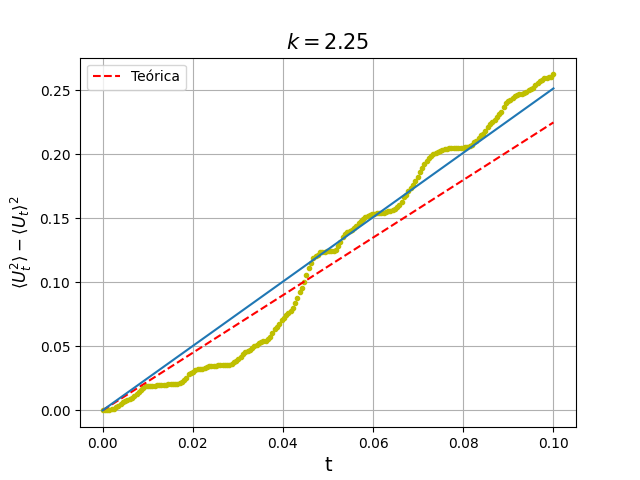
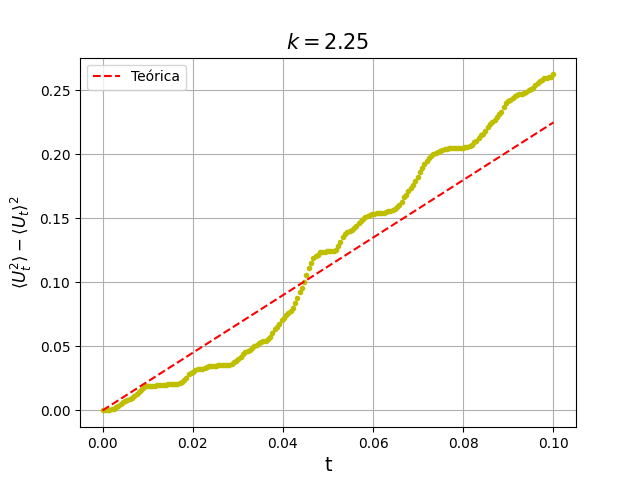
corrijo imagen

diff --git a/Dfunction/plot_t_vs_var.py b/Dfunction/plot_t_vs_var.py
@@ -59,14 +59,14 @@ plt.title(r'$k=2.0$', fontsize=15)
 plt.legend()
 plt.savefig('t_vs_var_k_2')
 '''
+'''
 plt.plot(t6, varU6/10, 'yo', markersize=3)
 plt.plot(t6, 2.25*t6, 'r--', label='Teórica')
-plt.plot(t6, t6*popt6)
 plt.title(r'$k=2.25$', fontsize=15)
 plt.legend()
 plt.savefig('t_vs_var_k_2_25')
 #plt.show()
-
+'''
 print('Slope', '\t','Ds')
 print(popt1, 3*np.sqrt(np.diag(pcov1)))
 print(popt2, 3*np.sqrt(np.diag(pcov2)))
